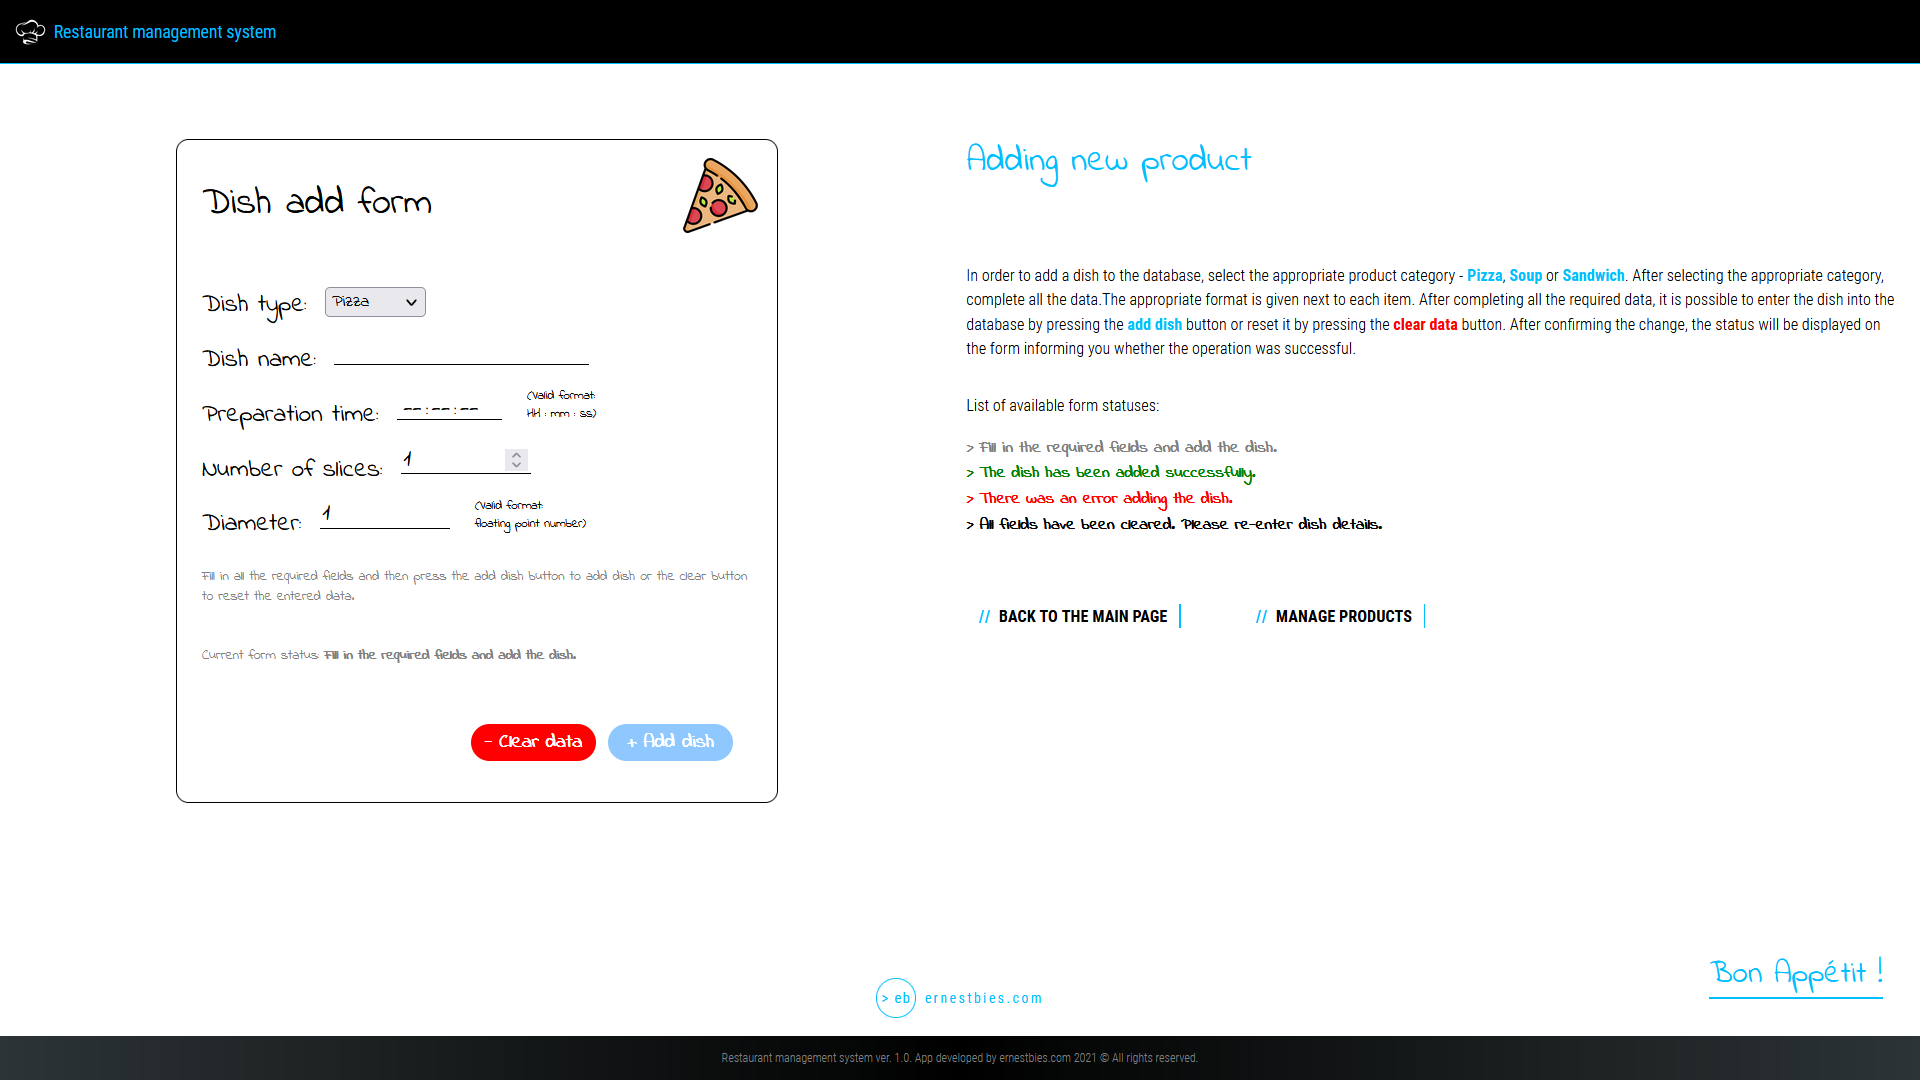
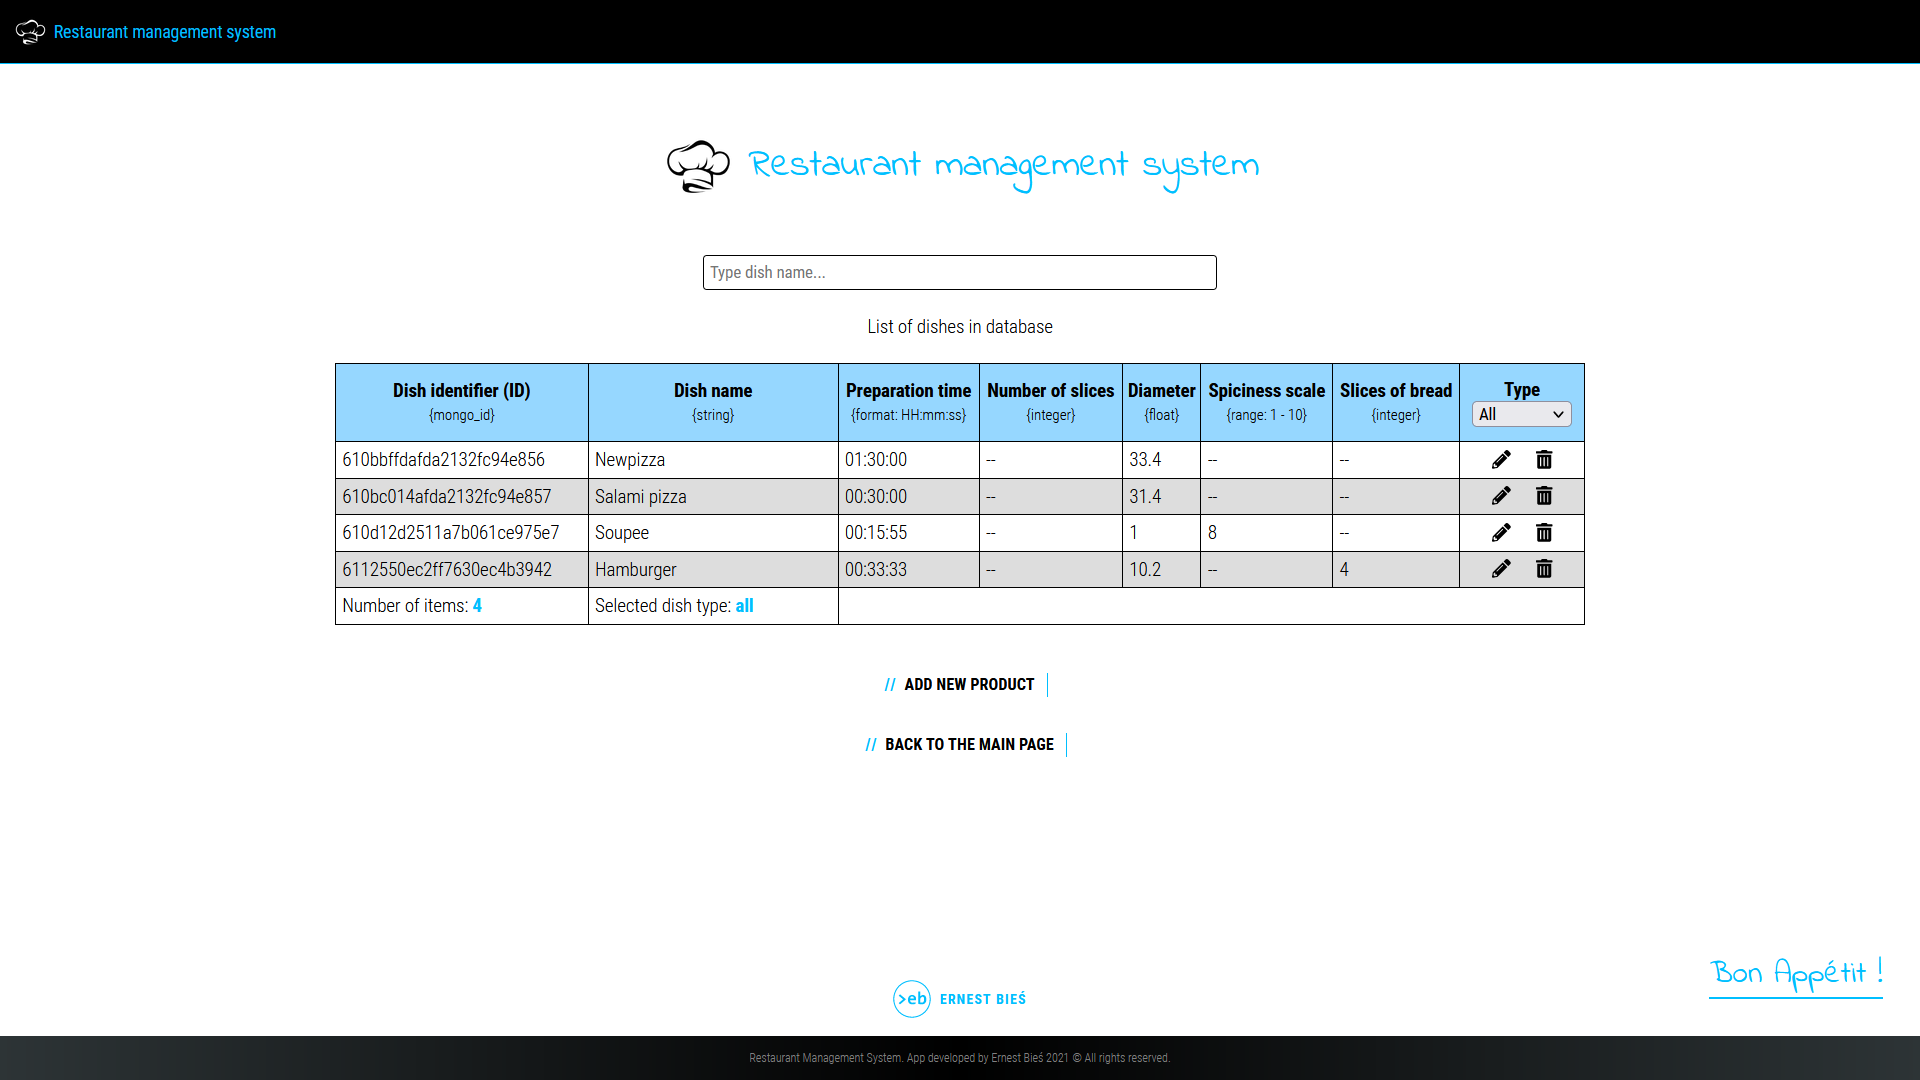
Update.

diff --git a/src/components/Logo/Logo.styles.js b/src/components/Logo/Logo.styles.js
@@ -13,17 +13,9 @@ export const LogoContainer = styled.a`
     }
 `;
 
-export const StyledLogo = styled.div`
+export const StyledLogo = styled.img`
     width: 30px;
     height: 30px;
-    border: 1px solid deepskyblue;
-    border-radius: 50%;
-    text-align: center;
-    color: deepskyblue;
-    font-family: Roboto Condensed, serif;
-    letter-spacing: 1px;
-    line-height: 30px;
-    font-size: 12px;
 `;
 
 export const StyledLink = styled.span`
@@ -31,5 +23,6 @@ export const StyledLink = styled.span`
     font-family: Roboto Condensed, serif;
     margin-left: 7px;
     font-size: 11px;
-    letter-spacing: 2px;
+    letter-spacing: 1px;
+    font-weight: bold;
 `;

diff --git a/src/components/Logo/Logo.js b/src/components/Logo/Logo.js
@@ -5,9 +5,9 @@ import {MAIN_WEBSITE_URL} from "../../helpers/fetchData";
 export const Logo = () => {
 
     return (
-        <LogoContainer href={MAIN_WEBSITE_URL} title={'ernestbies.com'}>
-            <StyledLogo>{'> eb'}</StyledLogo>
-            <StyledLink>{'ernestbies.com'}</StyledLink>
+        <LogoContainer href={MAIN_WEBSITE_URL} title={'Ernest Bieś - official website'}>
+            <StyledLogo src={'eb-logo.svg'} alt={'EB'}/>
+            <StyledLink>{'ERNEST BIEŚ'}</StyledLink>
         </LogoContainer>
     );
 };

diff --git a/src/parts/Footer/Footer.js b/src/parts/Footer/Footer.js
@@ -4,7 +4,7 @@ import "./Footer.styles.css";
 const Footer = () => {
     return (
         <footer className={'footer'}>
-            <p style={{color: 'grey', margin: 0}}>Restaurant management system ver. 1.0. App developed by ernestbies.com 2021 &copy; All rights reserved.</p>
+            <p style={{color: 'grey', margin: 0}}>Restaurant Management System. App developed by Ernest Bieś 2021 &copy; All rights reserved.</p>
         </footer>
     );
 }

diff --git a/src/helpers/fetchData.js b/src/helpers/fetchData.js
@@ -1,5 +1,5 @@
-export const MAIN_WEBSITE_URL = 'localhost:3000';
-export const WEBSITE_URL = 'localhost:3000';
+export const MAIN_WEBSITE_URL = 'https://ernestbies.netlify.app';
+export const WEBSITE_URL = 'https://rms-ernestbies.netlify.app';
 export const DEFAULT_API_URL = 'http://localhost:4200/api/dishes';
 
 export const getApiUrl = () => localStorage.getItem('server_api') ?? DEFAULT_API_URL;
